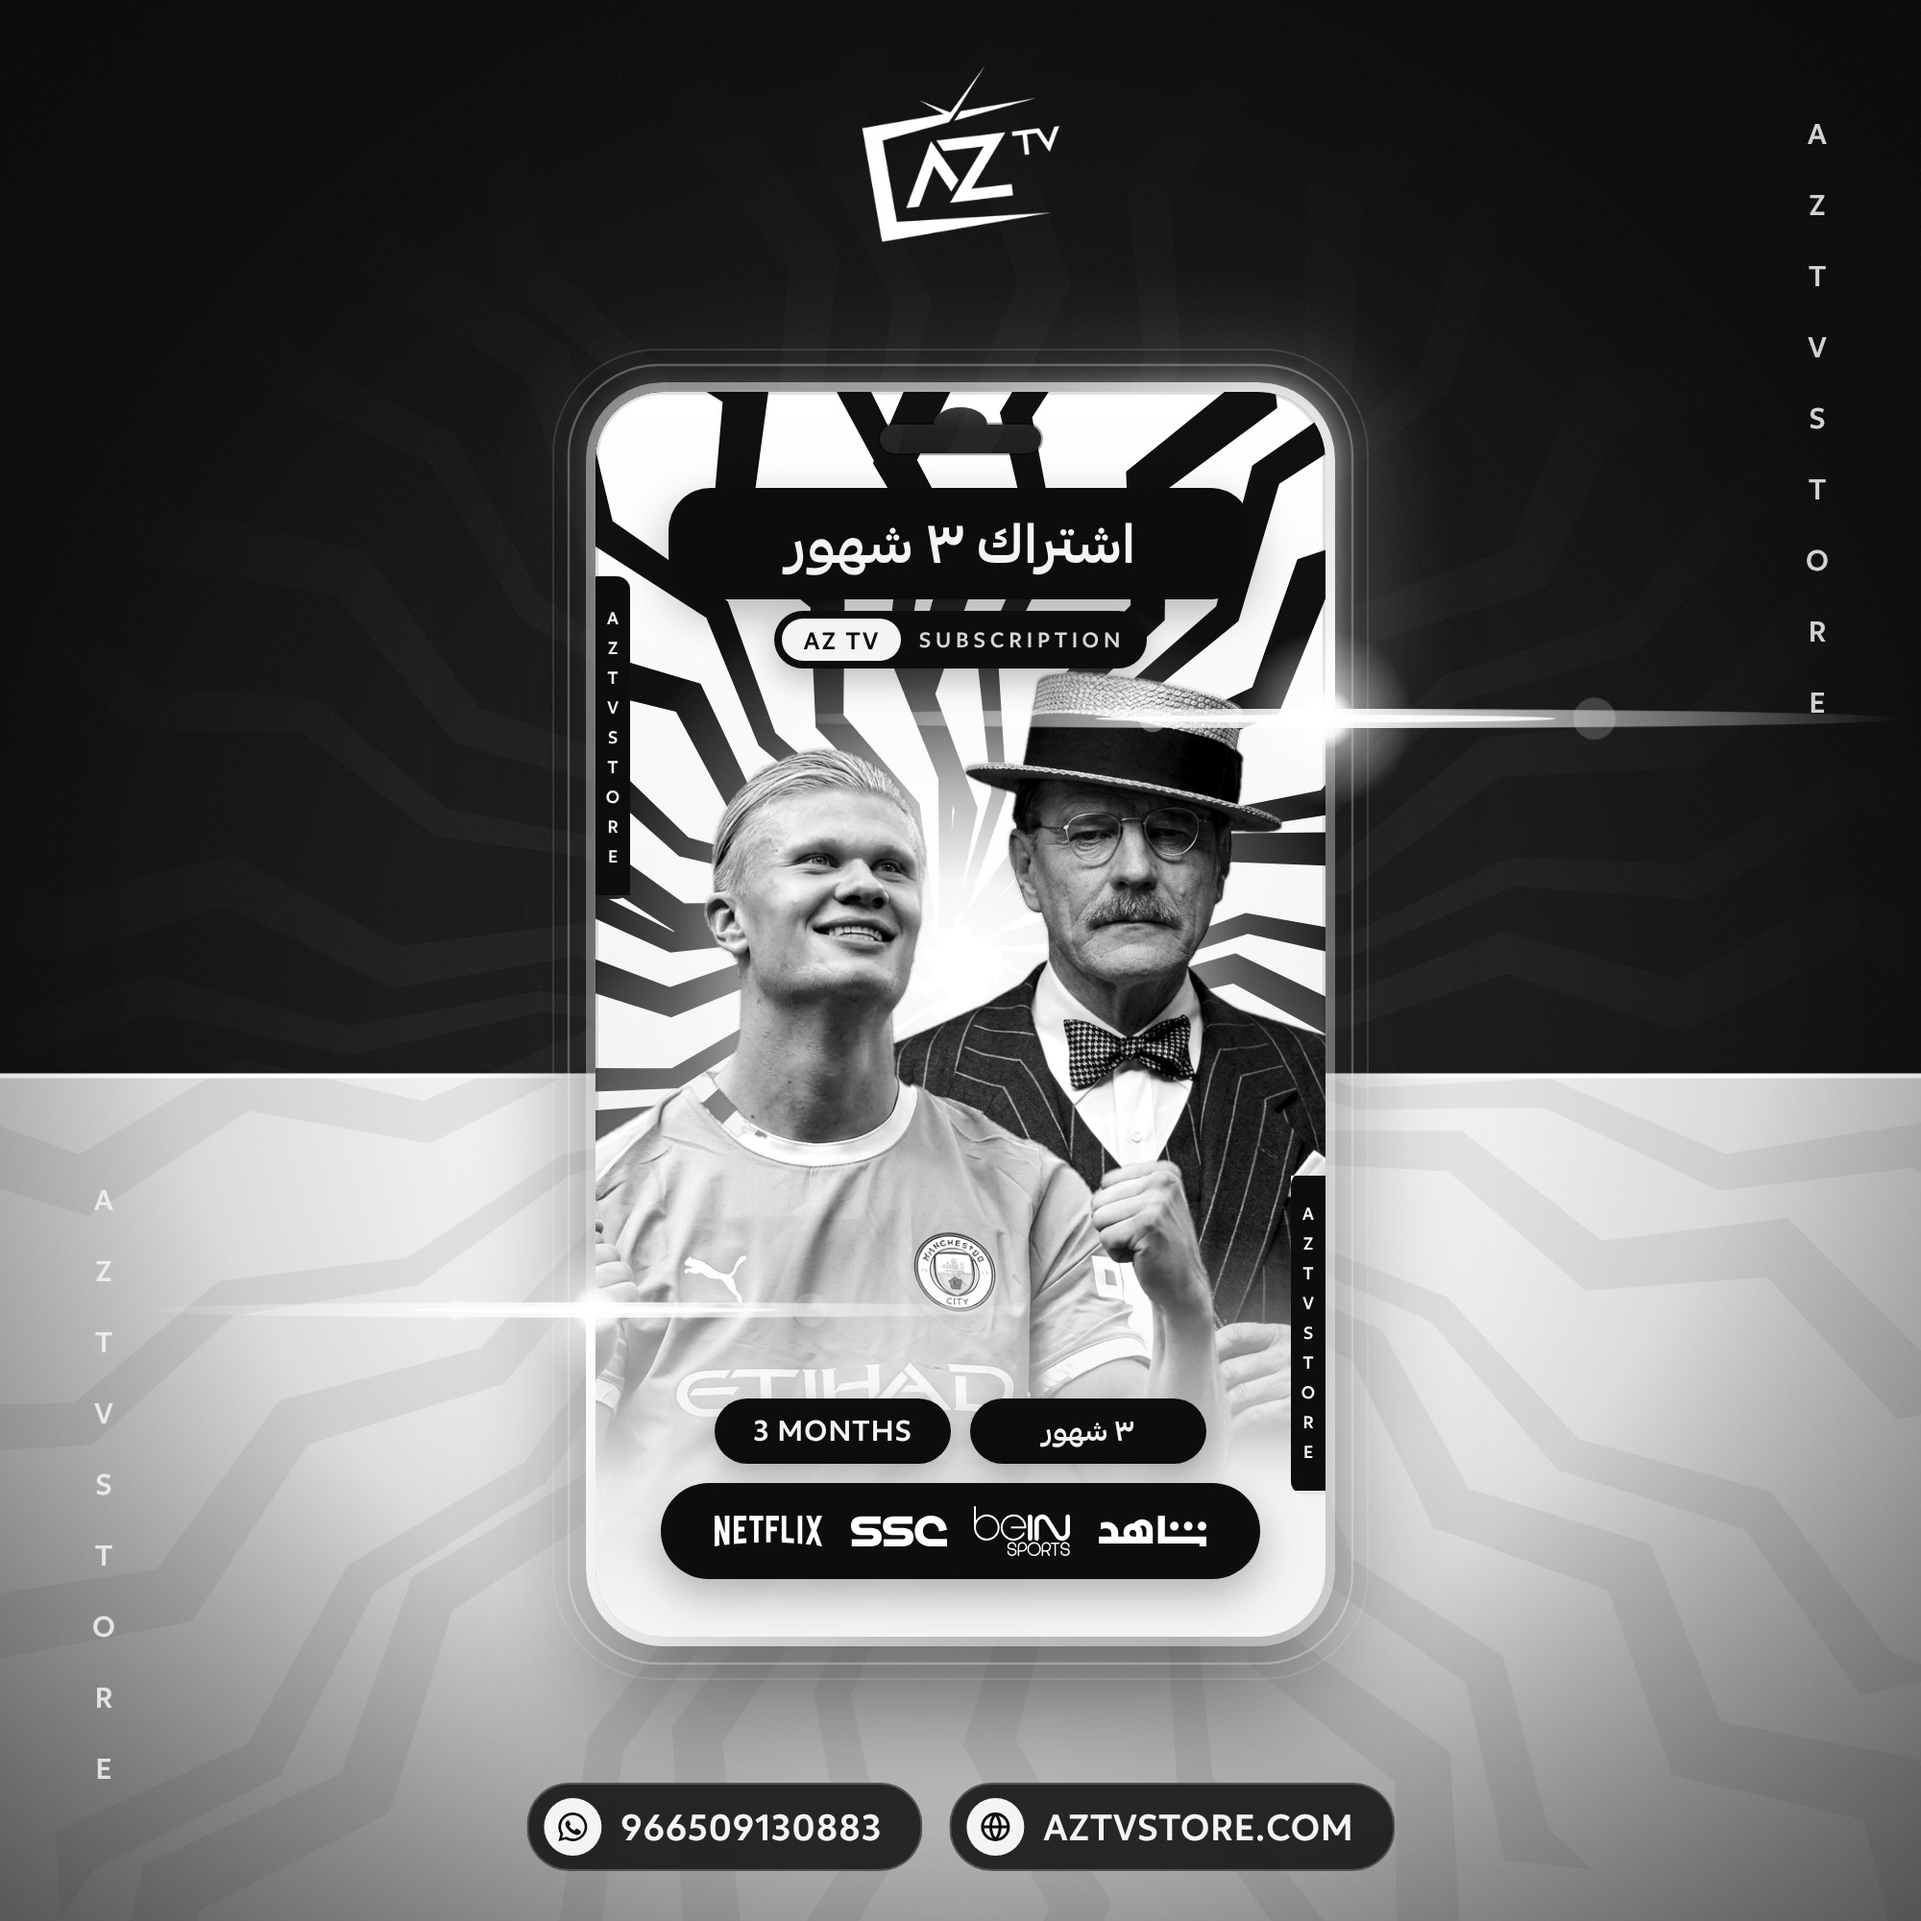
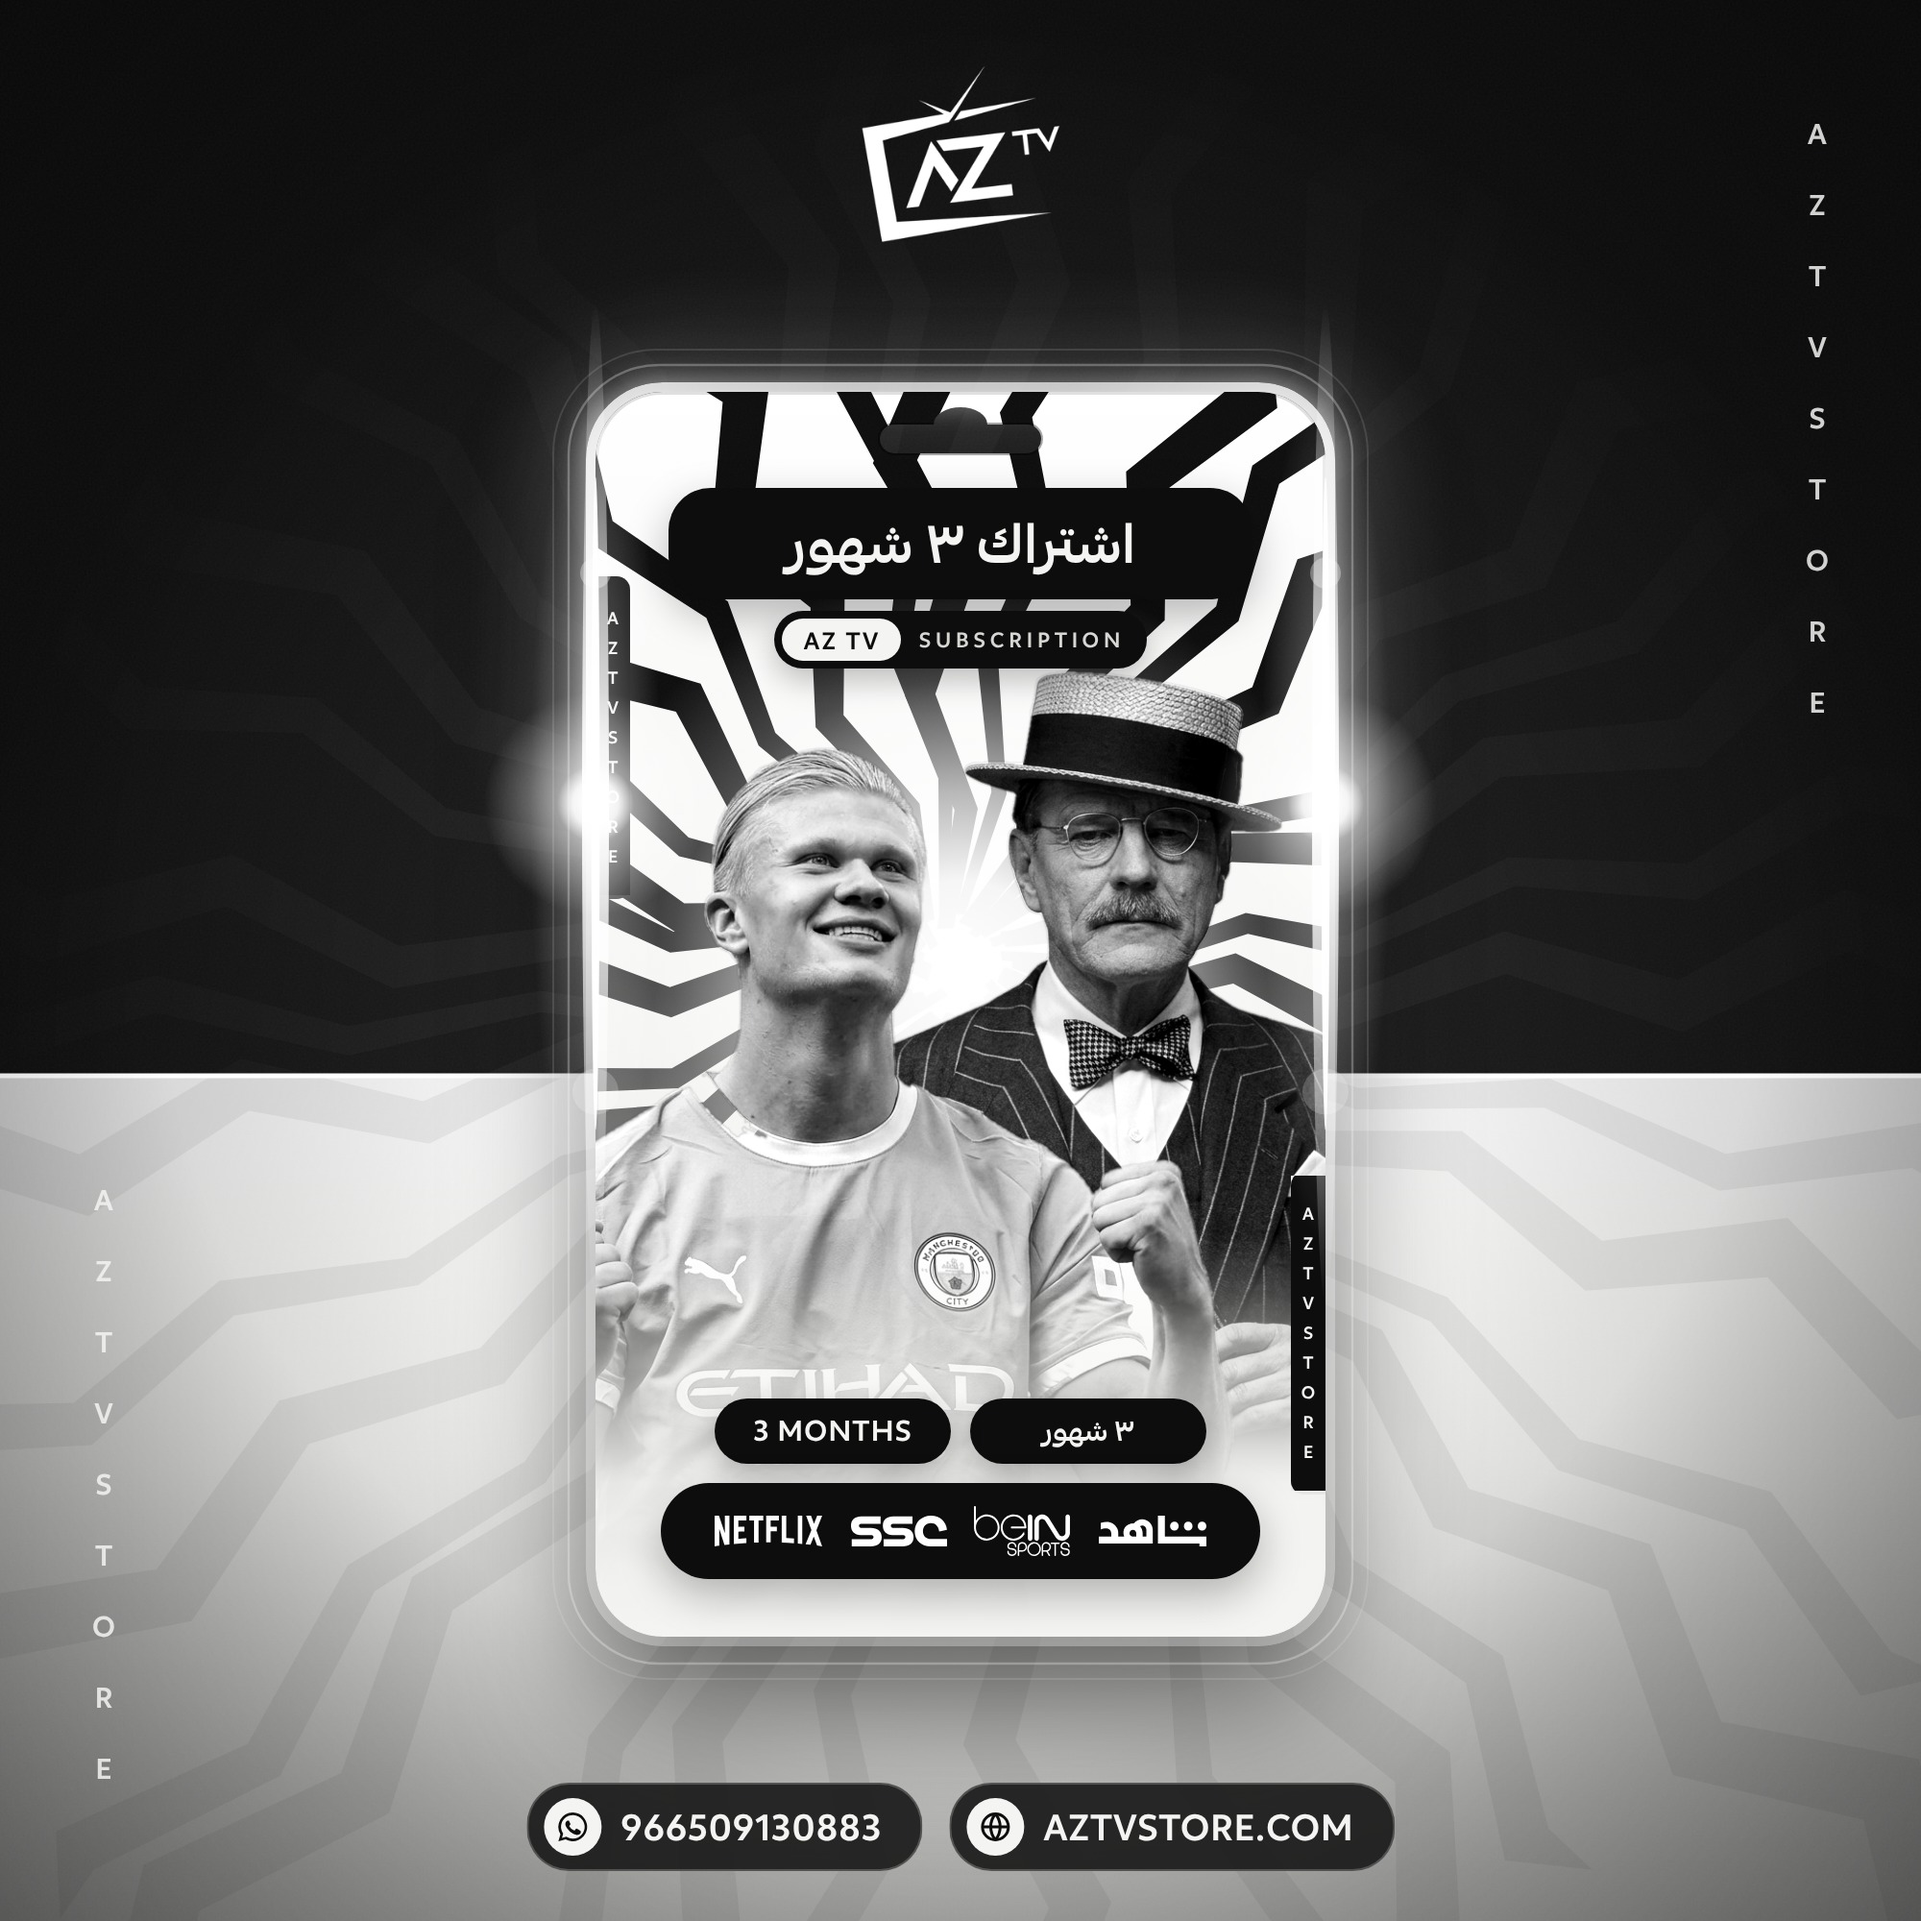
Shine option A: vertical flares on the card's side edges, mirrored comets; option B removed
Claude-Session: https://claude.ai/code/session_01D8XCbG6TVkErSujRZYkAkh

diff --git a/05-design/shared/subscription-backgrounds/backgrounds.html b/05-design/shared/subscription-backgrounds/backgrounds.html
@@ -268,27 +268,37 @@ bg.style.setProperty("--glow", C.glow);
     return [500 + dx * t, 528 + dy * t];
   };
   // cinematic flare: a long thin horizontal streak, a soft halo and a hot core
-  const flare = ([x, y], k = 1) => `<g transform="translate(${x.toFixed(1)} ${y.toFixed(1)})" style="mix-blend-mode:screen">
+  const flare = ([x, y], k = 1, rot = 0) => `<g transform="translate(${x.toFixed(1)} ${y.toFixed(1)}) rotate(${rot})" style="mix-blend-mode:screen">
     <ellipse rx="${300 * k}" ry="${5 * k}" fill="url(#streakH)"/>
     <ellipse rx="${120 * k}" ry="${2 * k}" fill="#fff" opacity=".9"/>
+    <ellipse rx="${170 * k}" ry="${16 * k}" fill="url(#halo)" opacity=".75"/>
     <circle r="${46 * k}" fill="url(#halo)"/><circle r="${16 * k}" fill="url(#core)"/>
     <circle cx="${-90 * k}" r="${7 * k}" fill="rgb(${g})" opacity=".35"/><circle cx="${140 * k}" r="${11 * k}" fill="rgb(${g})" opacity=".18"/></g>`;
   const defs = `<defs>
     <radialGradient id="halo"><stop offset="0" stop-color="#fff" stop-opacity=".9"/><stop offset=".25" stop-color="rgb(${g})" stop-opacity=".55"/><stop offset="1" stop-color="rgb(${g})" stop-opacity="0"/></radialGradient>
     <radialGradient id="core"><stop offset="0" stop-color="#fff"/><stop offset=".6" stop-color="#fff" stop-opacity=".8"/><stop offset="1" stop-color="#fff" stop-opacity="0"/></radialGradient>
+    <linearGradient id="streakV" x1="0" y1="0" x2="0" y2="1"><stop offset="0" stop-color="rgb(${g})" stop-opacity="0"/><stop offset=".5" stop-color="#fff"/><stop offset="1" stop-color="rgb(${g})" stop-opacity="0"/></linearGradient>
     <linearGradient id="streakH"><stop offset="0" stop-color="rgb(${g})" stop-opacity="0"/><stop offset=".5" stop-color="#fff" stop-opacity=".95"/><stop offset="1" stop-color="rgb(${g})" stop-opacity="0"/></linearGradient>
   </defs>`;
   if (mode === "a") {
-    // comet heads sit at the end of each tail (conic 0deg = up, heads at ~359deg and ~179deg, turned by --rot)
-    const rot = 52;
+    // upright flare that hugs the side edge: a bright hairline running up and down the edge, a wide soft glow, a hot core
+    const edgeFlare = ([x, y]) => `<g transform="translate(${x.toFixed(1)} ${y.toFixed(1)})" style="mix-blend-mode:screen">
+      <ellipse rx="34" ry="230" fill="url(#halo)" opacity=".55"/>
+      <ellipse rx="7" ry="260" fill="url(#streakV)"/>
+      <ellipse rx="2.2" ry="170" fill="#fff"/>
+      <circle r="58" fill="url(#halo)"/><circle r="20" fill="url(#core)"/>
+      <circle cy="-120" r="8" fill="rgb(${g})" opacity=".35"/><circle cy="150" r="12" fill="rgb(${g})" opacity=".2"/></g>`;
+    // two comets mirrored left and right: both heads on the dark upper half, at the same height (60deg and 300deg, 0 = up)
+    const HEAD = 60;
     const outer = `<rect x="296" y="190" width="408" height="676" rx="47" fill="none" stroke="rgba(${g},.28)" stroke-width="1.2"/>
       <rect x="288" y="182" width="424" height="692" rx="54" fill="none" stroke="rgba(${g},.12)" stroke-width="1"/>`;
-    document.getElementById("fx").innerHTML = defs + outer + flare(onEdge(rot - 1)) + flare(onEdge(rot + 179), .8);
-    document.querySelectorAll(".edge").forEach(e => e.style.transform = "none");
-    // turn the comet gradients: conic "from" angle
+    // the flares stand upright and run along the card's side edges (client: horizontal was not realistic)
+    document.getElementById("fx").innerHTML = defs + outer + edgeFlare(onEdge(HEAD)) + edgeFlare(onEdge(360 - HEAD));
     document.querySelectorAll(".shine-a .edge").forEach(e => {
-      const tail = from => `conic-gradient(from ${from}deg at 50% 50%, transparent 0deg, rgba(${g}, .06) 250deg, rgba(${g}, .3) 310deg, rgba(${g}, .85) 350deg, #fff 357deg, #fff 359deg, transparent 360deg)`;
-      e.style.background = `${tail(rot)}, ${tail(rot + 180)}, rgba(${g}, ${e.closest(".glow-wrap") ? 0 : .3})`;
+      // right comet runs clockwise, its tail behind it (anticlockwise); left comet is its mirror image
+      const right = `conic-gradient(from ${HEAD - 150}deg at 50% 50%, transparent 0deg, rgba(${g}, .08) 40deg, rgba(${g}, .35) 100deg, rgba(${g}, .9) 140deg, #fff 147deg, #fff 150deg, transparent 151deg)`;
+      const left = `conic-gradient(from ${360 - HEAD - 1}deg at 50% 50%, transparent 0deg, #fff 1deg, #fff 4deg, rgba(${g}, .9) 11deg, rgba(${g}, .35) 51deg, rgba(${g}, .08) 111deg, transparent 151deg)`;
+      e.style.background = `${right}, ${left}, rgba(${g}, ${e.closest(".glow-wrap") ? 0 : .3})`;
     });
   }
   if (mode === "b") {

diff --git a/05-design/shared/subscription-cards/README.md b/05-design/shared/subscription-cards/README.md
@@ -48,8 +48,8 @@ The client asked for the product images to be "more shining". A first try (glow 
 
 The client liked the edge light and asked for two more epic options built on it, on the same two images:
 
-- **Option A «comet»** (`product-images/f-shine-a/`, `&shine=a`): two light trails run round the card's rim with long fading tails; each head ends in a cinematic flare (a long thin horizontal light streak with a hot core); two faint outer frame lines around the card.
-- **Option B «power-up»** (`product-images/f-shine-b/`, `&shine=b`): the whole rim burns, brightest on the four corners, each corner with a flare, and light beams shoot out from behind the card across the stage.
+- **Option A «comet»** (`product-images/f-shine-a/`, `&shine=a`), **the chosen direction**: two light trails run round the card's rim with fading tails, mirrored left and right; their heads sit on the card's side edges on the dark half of the stage, each with an **upright** flare that hugs the edge (a bright hairline running up and down the edge, a soft glow and a hot core). The client said the first, horizontal flares were not realistic, so they are now vertical. Two faint outer frame lines around the card.
+- Option B «power-up» (burning rim and light beams across the stage) was rejected; its images were removed (git history), the code stays behind `&shine=b`.
 - Export: `node render-products.cjs f shine-a aztv-3m plus-12m` (or `shine-b`); all cards once one is chosen: `node render-products.cjs f shine-a`.
 
 ## Product images (2026-10-24, all nine cards accepted)
